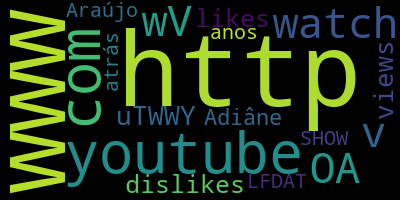
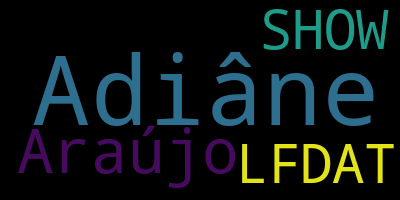
ordenar palavras por frequência

diff --git a/pacotestrab/ghalestrilo/Script3.py b/pacotestrab/ghalestrilo/Script3.py
@@ -1,10 +1,35 @@
 import io
 import os
+import re
 import sys
+from collections import Counter
+
 from wordcloud import WordCloud
 
-def main(file_in):
-    return
+def skipline(line):
+    return line.startswith('http') \
+        or line.startswith('views ') \
+        or line.startswith('likes ') \
+        or line.startswith('dislikes ') \
+        or line.endswith(' atrás')
+
+def sort_by_frequency(words):
+    print(Counter(words).most_common())
+    return [word for (word, freq) in Counter(words).most_common()]
+
+
+def filtrar(filename):
+    with open(filename) as video_data:
+        text = video_data.read()
+    video_data.close()
+    lines = re.split('\n', text)
+    lines = [line for line in lines if not skipline(line)]
+    text = " ".join(lines)
+    text = re.split(' ', text)
+    text = sort_by_frequency(text)
+    text = "\n".join(text)
+    # print(text)
+    return text
 
 def main(argv):
     if (len(argv) < 1):
@@ -15,10 +40,9 @@ def main(argv):
     video_id = argv[0]
     file_in = f'dataset/{video_id}.txt'
     file_out = f'img/{video_id}.png'
-    wordcloud = WordCloud(stopwords=["anos atrás"])
-    with open(file_in) as video_data:
-        wordcloud.generate(video_data.read())
-    video_data.close()
+    wordcloud = WordCloud(stopwords=["", "A", "O", "a", "o"])
+    texto = filtrar(file_in)
+    wordcloud.generate(texto)
     wordcloud.to_file(file_out)
     
     
